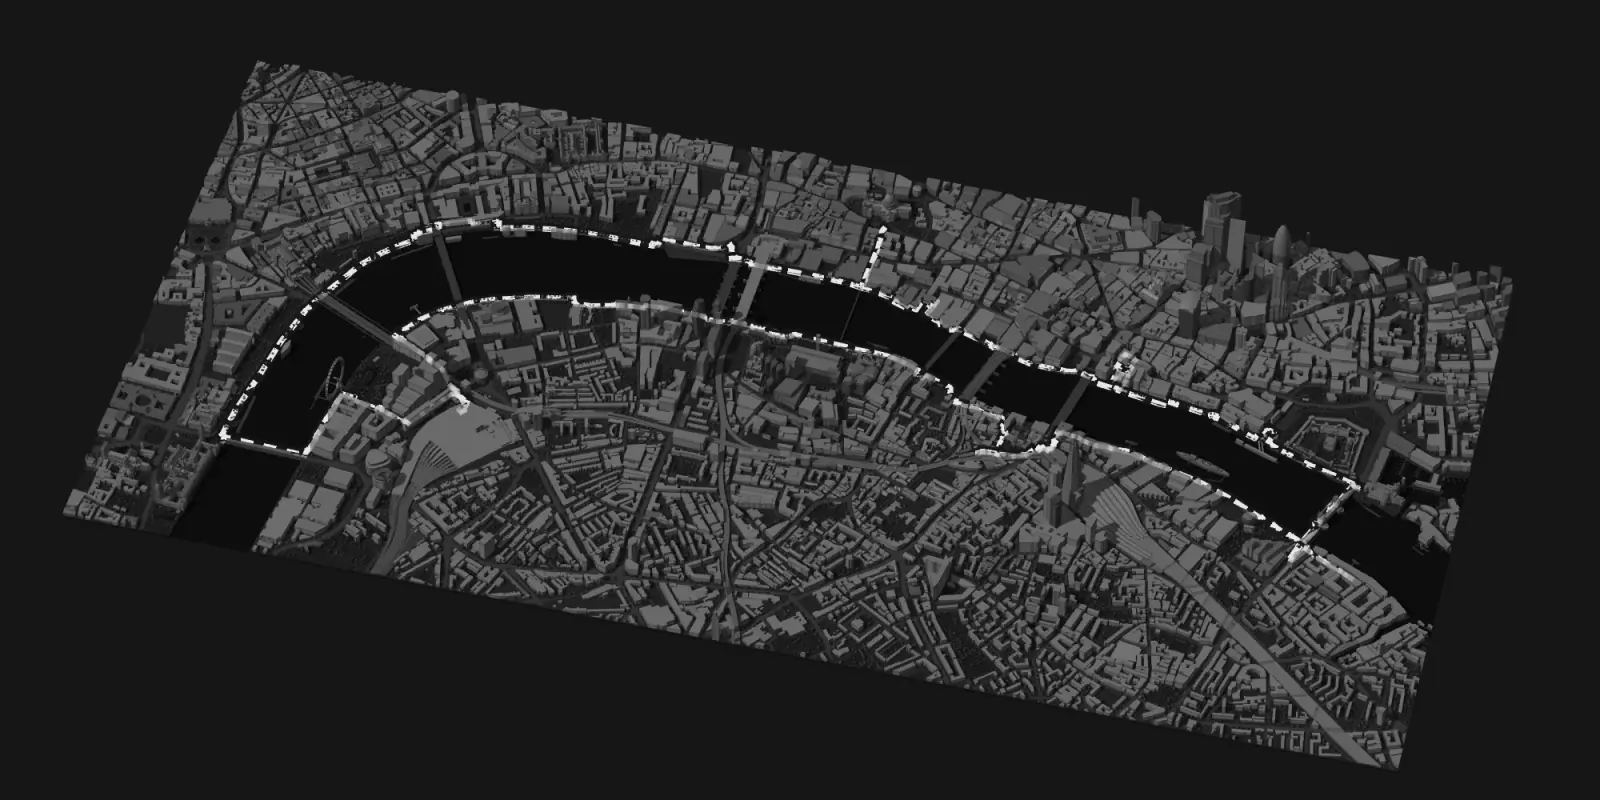
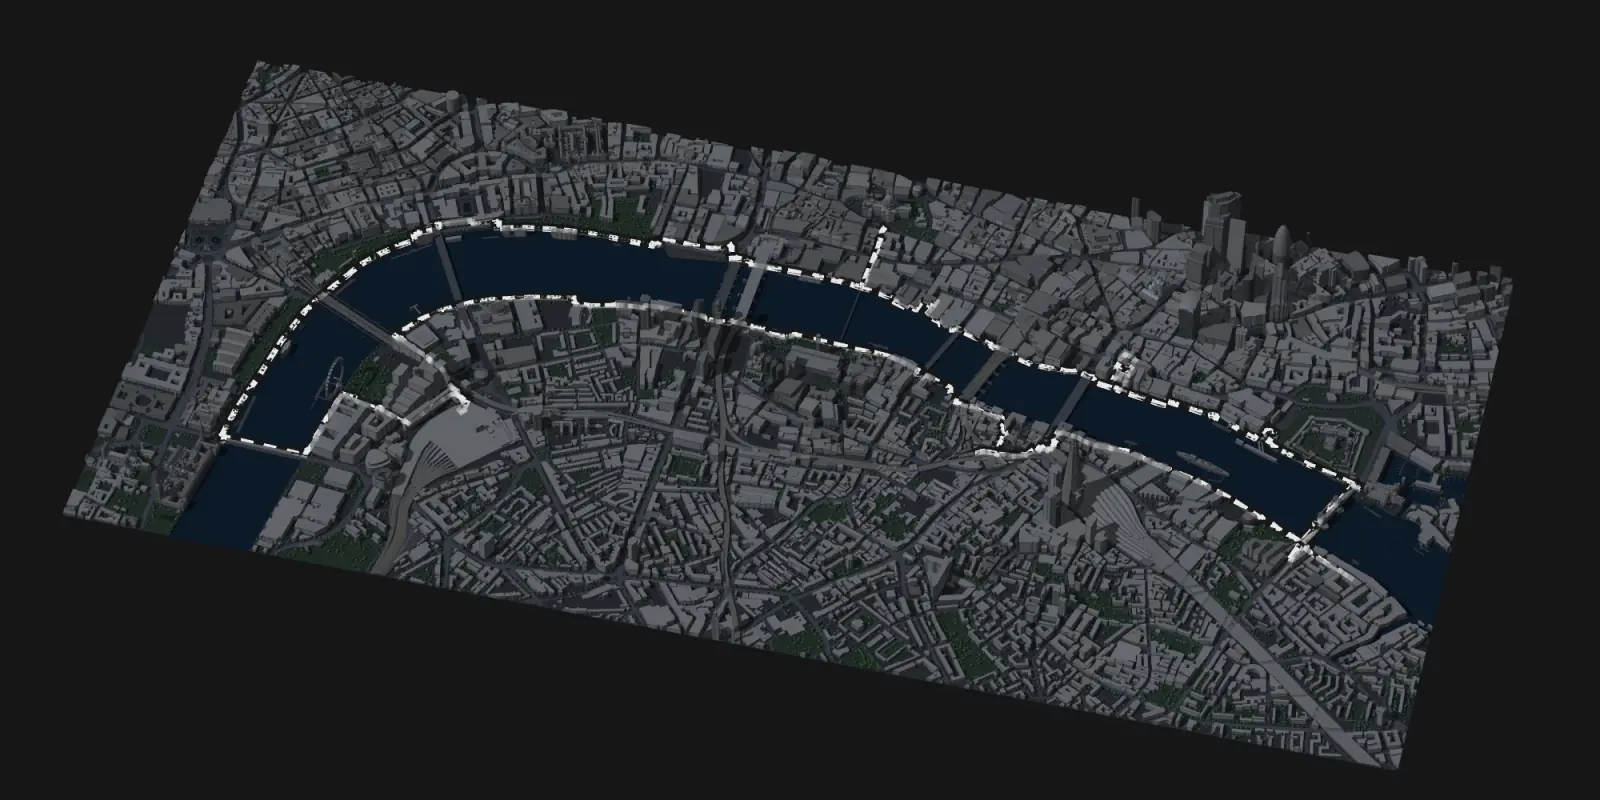
South Bank walk: the model is tinted
The river is blue, parks and trees green, the ground and roads warm, with a darker set for night and lamp-yellow windows. Buildings keep their gray tones and take only a little warmth or cool. The page round the model stays grayscale. The two stand-in pictures and the article's picture are drawn again to match. The grayscale model is kept as version 0.1.0.

Changed region(s): [[0.0938, 0.2812, 0.9062, 0.7812], [0.875, 0.5938, 0.9375, 0.625]]

diff --git a/misc/london-southbank/walk.js b/misc/london-southbank/walk.js
@@ -153,28 +153,67 @@ function ride(distance) {
   };
 }
 
-// ---- the look, from the page's own colors ----------------------------
+// ---- the look ----------------------------------------------------------
+//
+// The paper and the ink are the page's own, read from its CSS. The model's
+// colors are here: a tint for each kind of ground, and one for the buildings,
+// which keep the tone each was given and take only a little warmth or cool.
+
+const color = (hex) => [0, 2, 4].map((i) => parseInt(hex.slice(1 + i, 3 + i), 16) / 255);
 
 function shade(name) {
   const hex = getComputedStyle(root).getPropertyValue(name).trim().replace('#', '');
-  const full = hex.length === 3 ? hex.replace(/./g, '$&$&') : hex;
-  return [0, 2, 4].map((i) => parseInt(full.slice(i, i + 2), 16) / 255);
+  return color('#' + (hex.length === 3 ? hex.replace(/./g, '$&$&') : hex));
 }
 
-// Tones for the materials in city.js, in its order: wall and roof (unused
-// here, they carry their own), land, water, six kinds of road, green, tree,
-// river wall, bridge.
-const DAY = [0, 0, 0.9, 0.73, 0.985, 0.965, 0.95, 0.94, 0.945, 0.62, 0.82, 0.6, 0.8, 0.86, 0, 0];
-const NIGHT = [0, 0, 0.13, 0.05, 0.2, 0.18, 0.165, 0.155, 0.16, 0.28, 0.105, 0.19, 0.09, 0.2, 0, 0];
+// By material, in city.js's order. Walls and roofs are not here; they carry
+// a tone of their own and take the `walls` tint.
+const DAY = {
+  land: '#e8e4da',
+  water: '#a8c5d8',
+  roads: ['#fbf9f4', '#f6f3ec', '#f0ebe0', '#eeeae1', '#efebe2', '#9c9790'],
+  green: '#c3d6ae',
+  tree: '#7da06b',
+  bank: '#cdc7ba',
+  bridge: '#dcd7cc',
+  walls: '#fffaf2',
+  lamp: '#000000',
+};
+const NIGHT = {
+  land: '#22252b',
+  water: '#0c1a28',
+  roads: ['#353941', '#30343b', '#2c3036', '#2a2d33', '#2b2e34', '#4b4a48'],
+  green: '#1e2b22',
+  tree: '#2e4735',
+  bank: '#171a20',
+  bridge: '#33363d',
+  walls: '#eaf0ff',
+  lamp: '#ffd58a',
+};
+
+// The sixteen tints the shader looks up by material number.
+function tints(set) {
+  const list = [set.walls, set.walls, set.land, set.water].concat(set.roads, [
+    set.green,
+    set.tree,
+    set.bank,
+    set.bridge,
+    '#000000',
+    '#000000',
+  ]);
+  return new Float32Array(list.flatMap(color));
+}
 
 function readLook() {
   const paper = shade('--paper');
   const night = paper[0] < 0.5;
+  const set = night ? NIGHT : DAY;
   look = {
     paper: paper,
     ink: shade('--ink'),
-    shade: new Float32Array(night ? NIGHT : DAY),
-    // Sky and sun add up to one on open ground, so a tone means what it says.
+    tints: tints(set),
+    lamp: color(set.lamp),
+    // Sky and sun add up to one on open ground, so a color means what it says.
     light: night ? [0.5, 0.72, 0.2, 0.46] : [0.56, 0.64, 0.6, 1],
     // By day a window is a darker pane; by night one in three is lit.
     glass: night ? [0.4, 0.34, 0.62] : [0.32, 0, 0],

diff --git a/misc/london-southbank/draw.js b/misc/london-southbank/draw.js
@@ -3,7 +3,7 @@
  * Three small programs. `depth` draws the city from the sun's side into a
  * shadow map, fitted round whatever the camera can see so a close view gets
  * sharp shadows and a far one gets all of them. `solid` draws it from the camera:
- * a tone for every surface, the sun and the sky on it, the shadow map for
+ * a color for every surface, the sun and the sky on it, the shadow map for
  * what the sun cannot reach, and windows worked out from how far along a
  * wall a point is. `path` draws the walk as a line a few pixels wide however
  * far away it is.
@@ -75,7 +75,8 @@ uniform sampler2DShadow uShadow;
 uniform float uTexel;
 uniform vec3 uSunDir;
 uniform vec3 uEye;
-uniform float uShade[16];
+uniform vec3 uTint[16];    // a color for each material; 0 and 1 tint the buildings
+uniform vec3 uLamp;        // the color of a lit window
 uniform vec4 uLight;   // sky, sun, darkest wall, lightest wall
 uniform vec3 uGlass;   // how dark a window is by day, how many are lit, how bright
 uniform vec4 uFog;     // the paper's color, and how much of it
@@ -106,7 +107,8 @@ void main() {
   float sky = mix(0.74, 1.0, n.z * 0.5 + 0.5) + 0.07 * max(dot(n.xy, -normalize(uSunDir.xy)), 0.0);
   float light = uLight.x * sky + uLight.y * direct;
 
-  float tone = material < 2 ? mix(uLight.z, uLight.w, vLook.y / 15.0) : uShade[material];
+  vec3 tone = uTint[material];
+  if (material < 2) tone *= mix(uLight.z, uLight.w, vLook.y / 15.0);
   float glow = 0.0;
 
   // No two buildings are quite one tone.
@@ -151,9 +153,10 @@ void main() {
     tone *= 0.88 + 0.24 * (vLook.y / 15.0);
   }
 
-  float value = tone * light + glow;
+  // A lit window is lamp-colored by night; by day the glow is the sun on glass.
+  vec3 value = tone * light + glow * (uGlass.y > 0.001 ? uLamp : vec3(1.0));
   float haze = uFog.a * smoothstep(uFar.x, uFar.x + uFar.y, distance(vAt, uEye));
-  color = vec4(mix(vec3(value), uFog.rgb, haze), 1.0);
+  color = vec4(mix(value, uFog.rgb, haze), 1.0);
 }`;
 
 const PATH_VERTEX = `#version 300 es
@@ -567,7 +570,8 @@ export function renderer(canvas, model) {
     gl.uniform2f(solid.at.uBias, sun.texel * 1.6, (sun.texel * 1.2) / (sun.far - sun.near));
     gl.uniform3fv(solid.at.uSunDir, normalize(SUN));
     gl.uniform3fv(solid.at.uEye, camera.eye);
-    gl.uniform1fv(solid.at.uShade, look.shade);
+    gl.uniform3fv(solid.at.uTint, look.tints);
+    gl.uniform3fv(solid.at.uLamp, look.lamp);
     gl.uniform4fv(solid.at.uLight, look.light);
     gl.uniform3fv(solid.at.uGlass, look.glass);
     // Haze belongs to the short lens; the long one sees the far side as clearly as the near.

diff --git a/misc/london-southbank/index.html b/misc/london-southbank/index.html
@@ -11,9 +11,9 @@
 <style>
 /* A one-off, on its own (see _docs/misc.md). Everything this page needs is in
    this folder: nothing here loads the site's stylesheet or scripts, and
-   nothing of it reaches any other page. Grayscale and system fonts, like the
-   site. The model's own colors are in walk.js, which reads --paper and --ink
-   from here so the two cannot drift apart. */
+   nothing of it reaches any other page. The page is the site's grayscale and
+   system fonts; the model alone is tinted, and its colors are in walk.js,
+   which reads --paper and --ink from here for the rest. */
 :root { --paper:#fafafa;--ink:#1a1a1a;--ink-2:#555;--muted:#777;--rule:#d4d4d4;--panel:rgba(250,250,250,.86);--stage:min(76vh,48rem); }
 :root[data-theme="dark"] { --paper:#161616;--ink:#e8e8e8;--ink-2:#aaa;--muted:#8a8a8a;--rule:#3a3a3a;--panel:rgba(22,22,22,.82); color-scheme: dark; }
 @media (prefers-color-scheme: dark) { :root:not([data-theme="light"]) { --paper:#161616;--ink:#e8e8e8;--ink-2:#aaa;--muted:#8a8a8a;--rule:#3a3a3a;--panel:rgba(22,22,22,.82); } }

diff --git a/_docs/misc.md b/_docs/misc.md
@@ -103,10 +103,17 @@ copy breaks without anyone looking at it.
 it (placed in percent, in the HTML), and the list they link to. The script adds
 `is-live` to `.stage` once the model has drawn, or `is-still` if it cannot.
 
-**The look is the page's own.** `walk.js` reads `--paper` and `--ink` from the
-page's CSS and picks a day or a night set of tones by which is darker. By night
-one window in three is lit. Each building's tone is the luminance of its mapped
-color or material, so brick is darker than stone, and still gray.
+**The model is tinted; the page round it is not** (2026-11-15: *"Let's do the
+next step of the Tinted Palette and let's see how that goes"*). This is a
+stated exception to the grayscale rule above, for the model only. The river is
+blue, parks and trees green, the ground and roads warm; `DAY` and `NIGHT` in
+`walk.js` hold a color for each kind of ground, and which set is used goes by
+whether the page's `--paper` is light or dark. By night one window in three is
+lit, lamp yellow. Buildings are still gray: each keeps the luminance of its
+mapped color or material, so brick is darker than stone, and takes only a
+little warmth by day and cool by night. Giving each building its own mapped
+color is the step after this one and needs the data made again. The grayscale
+model is kept as version 0.1.0, below.
 
 ### How city.json was made
 
